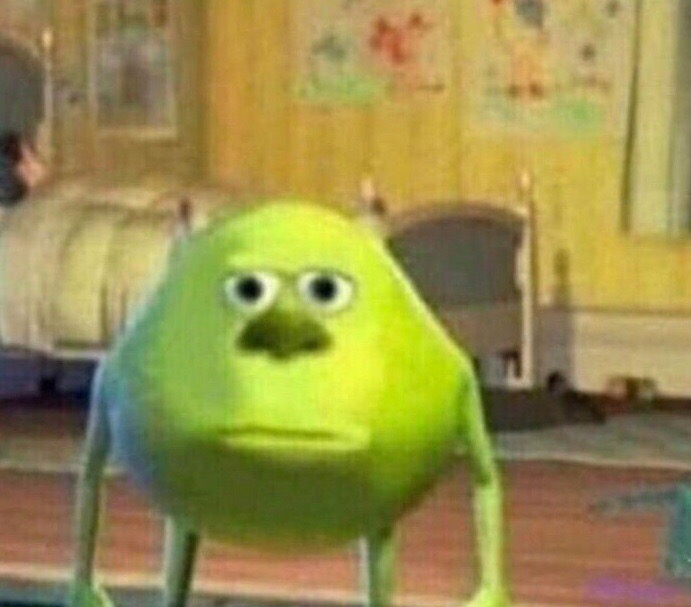
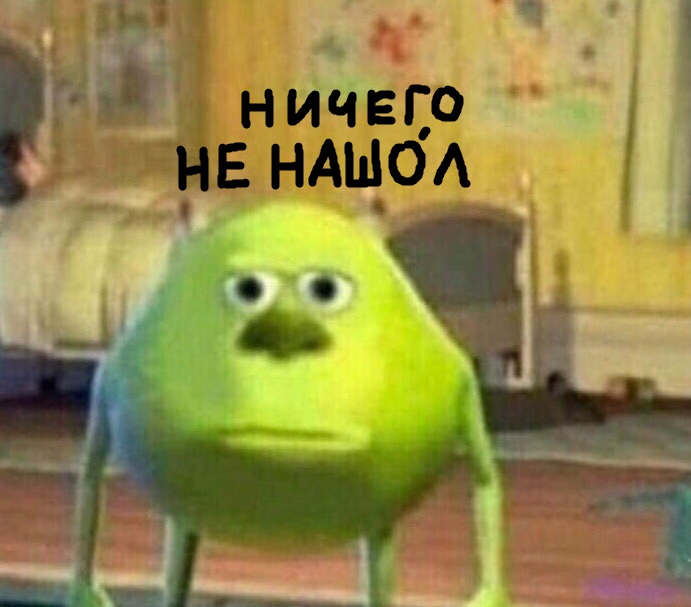
Изменено окно поиска. Добавлены иконки в меню.

Changed region(s): [[0.2431, 0.1186, 0.699, 0.3262]]

diff --git a/my_server/flask_server/templates/layout.html b/my_server/flask_server/templates/layout.html
@@ -58,10 +58,28 @@
                     {% if current_user.is_authenticated %}
                         <div class="menu_links_container">
                             <div class="link_div">
-                                <a href="{{ url_for('upload') }}" class="menu_link">Загрузить</a>
+                                <a href="{{ url_for('account') }}" class="menu_link">
+                                    <img src="/static/home.png">
+                                    Профиль
+                                </a>
                             </div>
                             <div class="link_div">
-                                <a href="{{ url_for('search') }}" class="menu_link">Искать</a>
+                                <a href="{{ url_for('home') }}" class="menu_link">
+                                    <img src="/static/camera.png">
+                                    Мои фото
+                                </a>
+                            </div>
+                            <div class="link_div">
+                                <a href="{{ url_for('upload') }}" class="menu_link">
+                                    <img src="/static/download.png">
+                                    Загрузка
+                                </a>
+                            </div>
+                            <div class="link_div">
+                                <a href="{{ url_for('search') }}" class="menu_link">
+                                    <img src="/static/search.png">
+                                    Поиск
+                                </a>
                             </div>
                         </div>
                     {% endif %}

diff --git a/my_server/flask_server/static/scripts/search.js b/my_server/flask_server/static/scripts/search.js
@@ -64,6 +64,7 @@ function initializePage(imageList, columns, images) {
 
 function searchImages(columns, images, searchTagList) {
     const columnWidth = columns[0].self.offsetWidth;
+    const pathToShrek = "/static/404.jpg";
 
     // Обнуление колонок перед поиском
     columns.forEach(function(column) {
@@ -125,6 +126,24 @@ function searchImages(columns, images, searchTagList) {
             currentColumn.addImage(images[i].node);
 
             currentColumn.changeHeight(images[i].htwRatio * columnWidth);
+        }
+    }
+    if(!columns[0].height) {
+        if(!document.querySelector(".shrek")) {
+            let shrek = document.createElement("img");
+            shrek.src = pathToShrek;
+            shrek.classList.add("shrek");
+            let x = 0;
+            let timerId = setInterval(function() {
+                x++;
+                let new_rotate = "rotate(" + x + "deg)"
+                shrek.style.transform = new_rotate;
+            }, 25);
+            document.querySelector(".wrapper_middle").append(shrek);
+        }
+    } else {
+        if(document.querySelector(".shrek")) {
+            document.querySelector(".shrek").remove();
         }
     }
 }

diff --git a/my_server/flask_server/templates/404.html b/my_server/flask_server/templates/404.html
@@ -1,7 +1,8 @@
 {% extends "layout.html" %}
 {% block content %}
-    <h1>Страница не найдена</h1>
-    <p><a href="{{ url_for('home') }}">Назад</a></p>
-    <img src="{{ url_for('static', filename='404.jpg') }}" id="shrek" style="width: 500px; height: 500px; border-radius: 500px;">
+    <div style="width: 500px; margin: 0px auto;">
+        <h1 style="width: 500px; text-align: center; color: #3d9480;">Страница не найдена</h1>
+        <img src="{{ url_for('static', filename='404.jpg') }}" id="shrek" style="width: 500px; height: 500px; border-radius: 50%;">
+    </div>
     <script src="{{ url_for('static', filename='scripts/404.js') }}"></script>
 {% endblock %}

diff --git a/my_server/flask_server/static/styles/global_settings.css b/my_server/flask_server/static/styles/global_settings.css
@@ -50,10 +50,23 @@ body {
         justify-content: flex-start;
     }
     .link_div {
-
+        height: 30px;
     }
     .menu_link {
-
+        font-size: 18px;
+        line-height: 30px;
+        display: block;
+        text-decoration: none;
+        color: #3d9480;
+    }
+    .menu_link img {
+        float: left;
+        width: 30px;
+        height: 30px;
+        margin-right: 3px;
+    }
+    .menu_link:hover {
+        background: #f0f0f0;
     }
 #wrapper {
     min-width: 1400px;

diff --git a/my_server/flask_server/static/styles/nav_styles.css b/my_server/flask_server/static/styles/nav_styles.css
@@ -78,7 +78,6 @@ nav a:hover{
     background: white;
     height: 25px;
     flex-grow: 1;
-    border-radius: 5px 0px 0px 5px;
 }
     #nav_search_input::placeholder {
         text-indent: 5px;
@@ -98,7 +97,6 @@ nav a:hover{
     background: white;
     margin-left: -1px;
     border: 1px solid #418777;
-    border-radius: 0px 5px 5px 0px;
 
     display: flex;
     flex-direction: row;

diff --git a/my_server/flask_server/static/styles/search.css b/my_server/flask_server/static/styles/search.css
@@ -324,6 +324,12 @@ body {
     left: 50%;
     bottom: 10px;
 }
+.shrek {
+    position: absolute;
+    height: 400px;
+    width: 400px;
+    border-radius: 50%;
+}
 
 .hidden {
     display: none;
